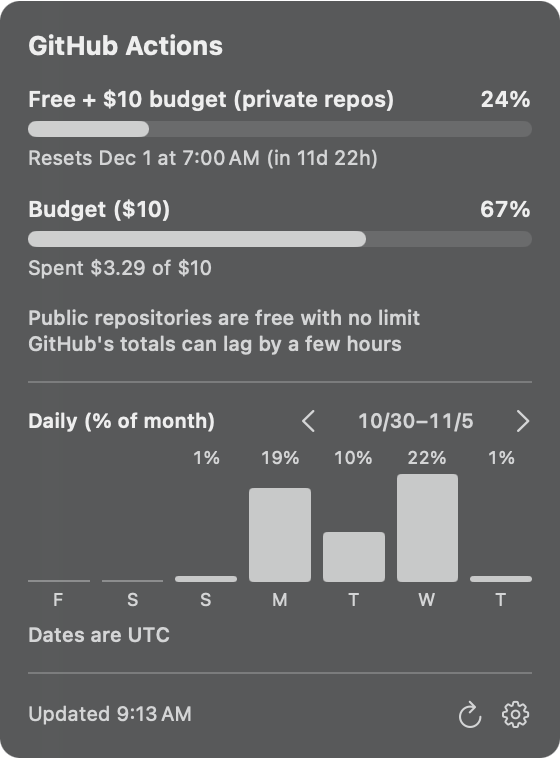
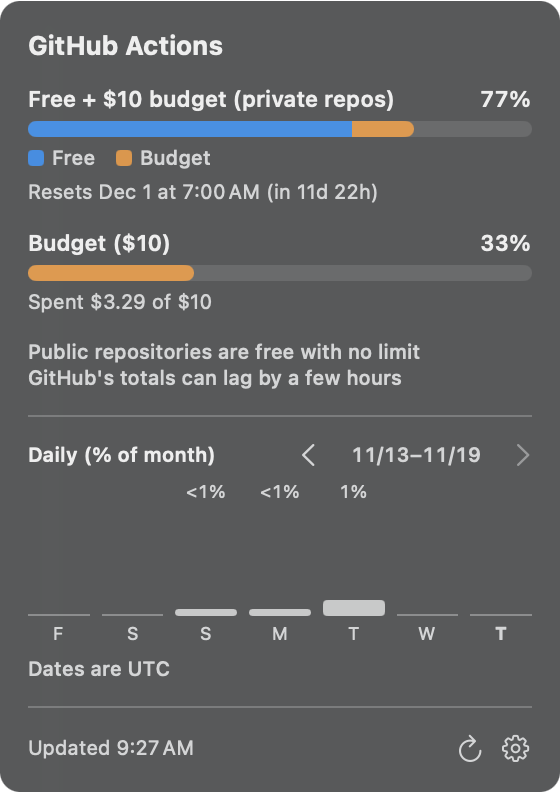
Split the free-plus-budget bar by colour
With a budget set, the GitHub "Free + budget" bar mixed both amounts in
one colour. It now shows the free part in blue and the budget part in
orange, with a small legend: in used mode, free used then budget used; in
remaining mode, free left then budget left (usage spends free usage
first). The bar length still matches the percentage. The budget-only row
below uses orange too. Without a budget nothing changes.

README: describes the colours; GitHub screenshot retaken in used mode so
both colours show (sample $10 budget; the owner's settings were restored).

AI-Agent: Claude Code (Opus 5.5)

diff --git a/Sources/TSAIUsageBar/PopoverView.swift b/Sources/TSAIUsageBar/PopoverView.swift
@@ -92,8 +92,18 @@ struct PopoverView: View {
                     Text("—").foregroundStyle(.secondary)
                 }
             }
-            UsageBar(fraction: display.percent(mode: settings.displayMode).map { Double($0) / 100 })
-                .opacity(model.isStale(provider) ? 0.5 : 1)
+            if kind == .month, let split = budgetSplit {
+                // Free usage and budget in different colours, so the mix is visible at a glance.
+                SplitUsageBar(free: split.free, budget: split.budget)
+                    .opacity(model.isStale(provider) ? 0.5 : 1)
+                HStack(spacing: 10) {
+                    LegendDot(color: SplitUsageBar.freeColor, text: s.legendFree)
+                    LegendDot(color: SplitUsageBar.budgetColor, text: s.legendBudget)
+                }
+            } else {
+                UsageBar(fraction: display.percent(mode: settings.displayMode).map { Double($0) / 100 })
+                    .opacity(model.isStale(provider) ? 0.5 : 1)
+            }
             Group {
                 switch display {
                 case .value(_, let reset):
@@ -120,6 +130,13 @@ struct PopoverView: View {
                            remaining: tt.duration(remaining))
     }
 
+    /// Free and budget parts of the GitHub month bar, when a budget is set.
+    private var budgetSplit: (free: Double, budget: Double)? {
+        guard provider == .github, let w = status.snapshot?.windows[.month],
+              case .value = model.display(ItemID(.github, .month)) else { return nil }
+        return BudgetBarSplit.parts(w, budgetUSD: model.githubBudgetUSD, mode: settings.displayMode)
+    }
+
     /// With a budget: remaining/used of the budget alone, and the amount billed against it.
     @ViewBuilder
     private var budgetRow: some View {
@@ -132,7 +149,7 @@ struct PopoverView: View {
                     Spacer()
                     Text("\(Int(shown.rounded()))%").font(.subheadline.monospacedDigit().weight(.semibold))
                 }
-                UsageBar(fraction: shown / 100)
+                UsageBar(fraction: shown / 100, color: SplitUsageBar.budgetColor) // same colour as the budget part
                     .opacity(model.isStale(.github) ? 0.5 : 1)
                 Text(s.budgetSpent(USDText.money(charged), USDText.format(budget)))
                     .font(.caption).foregroundStyle(.secondary)
@@ -246,13 +263,14 @@ struct PopoverView: View {
 /// Horizontal bar. Nil shows an empty track (no guessed value).
 struct UsageBar: View {
     let fraction: Double?
+    var color: Color? = nil
 
     var body: some View {
         GeometryReader { geo in
             ZStack(alignment: .leading) {
                 Capsule().fill(Color.primary.opacity(0.12))
                 if let fraction {
-                    Capsule().fill(Color.primary.opacity(0.75))
+                    Capsule().fill(color.map { $0.opacity(0.85) } ?? Color.primary.opacity(0.75))
                         .frame(width: max(fraction > 0 ? 4 : 0, geo.size.width * min(1, max(0, fraction))))
                 }
             }
@@ -389,5 +407,39 @@ struct DailyChart: View {
     private func rangeText(_ a: Date, _ b: Date) -> String {
         let f = formatter("Md")
         return "\(f.string(from: a))–\(f.string(from: b))"
+    }
+}
+
+/// A bar with two coloured parts from the left: free usage, then budget.
+struct SplitUsageBar: View {
+    let free: Double
+    let budget: Double
+    static let freeColor = Color.blue
+    static let budgetColor = Color.orange
+
+    var body: some View {
+        GeometryReader { geo in
+            let w = geo.size.width
+            ZStack(alignment: .leading) {
+                Capsule().fill(Color.primary.opacity(0.12))
+                HStack(spacing: 0) {
+                    Rectangle().fill(Self.freeColor.opacity(0.85)).frame(width: w * min(1, max(0, free)))
+                    Rectangle().fill(Self.budgetColor.opacity(0.85)).frame(width: w * min(1, max(0, budget)))
+                }
+                .clipShape(Capsule())
+            }
+        }
+        .frame(height: 8)
+    }
+}
+
+struct LegendDot: View {
+    let color: Color
+    let text: String
+    var body: some View {
+        HStack(spacing: 4) {
+            RoundedRectangle(cornerRadius: 2).fill(color.opacity(0.85)).frame(width: 8, height: 8)
+            Text(text).font(.caption2).foregroundStyle(.secondary)
+        }
     }
 }

diff --git a/Tests/UsageCoreTests/UsageCoreTests.swift b/Tests/UsageCoreTests/UsageCoreTests.swift
@@ -666,3 +666,29 @@ final class GitHubBudgetRowTests: XCTestCase {
         XCTAssertNil(GitHubActionsUsage.budgetPercent(w, budgetUSD: 20)) // older snapshot: re-read first
     }
 }
+
+final class BudgetBarSplitTests: XCTestCase {
+    let w = UsageWindow(usedPercent: 100, resetsAt: nil, usedAmount: 21.45, includedAmount: 18)
+
+    func testUsedAndRemainingSplit() {
+        // 18 free + 10 budget = 28. Used 21.45: all 18 free, 3.45 of the budget.
+        let used = BudgetBarSplit.parts(w, budgetUSD: 10, mode: .used)!
+        XCTAssertEqual(used.free, 18 / 28, accuracy: 0.0001)
+        XCTAssertEqual(used.budget, 3.45 / 28, accuracy: 0.0001)
+        let left = BudgetBarSplit.parts(w, budgetUSD: 10, mode: .remaining)!
+        XCTAssertEqual(left.free, 0, accuracy: 0.0001)
+        XCTAssertEqual(left.budget, 6.55 / 28, accuracy: 0.0001)
+        XCTAssertEqual(used.free + used.budget + left.free + left.budget, 1, accuracy: 0.0001)
+    }
+
+    func testWithinFreeUsageAndEdges() {
+        let early = UsageWindow(usedPercent: 25, resetsAt: nil, usedAmount: 7, includedAmount: 18)
+        let used = BudgetBarSplit.parts(early, budgetUSD: 10, mode: .used)!
+        XCTAssertEqual(used.free, 0.25, accuracy: 0.0001)
+        XCTAssertEqual(used.budget, 0)
+        let over = UsageWindow(usedPercent: 100, resetsAt: nil, usedAmount: 40, includedAmount: 18)
+        XCTAssertEqual(BudgetBarSplit.parts(over, budgetUSD: 10, mode: .used)!.budget, 10 / 28, accuracy: 0.0001) // capped
+        XCTAssertNil(BudgetBarSplit.parts(w, budgetUSD: nil, mode: .used))
+        XCTAssertNil(BudgetBarSplit.parts(UsageWindow(usedPercent: 1, resetsAt: nil), budgetUSD: 10, mode: .used))
+    }
+}

diff --git a/Sources/UsageCore/GitHubUsage.swift b/Sources/UsageCore/GitHubUsage.swift
@@ -136,3 +136,21 @@ public struct GitHubDailyCache: Codable, Equatable, Sendable {
         fetchedAt = fetchedAt.filter { $0.key >= cutoff }
     }
 }
+
+/// Split of the "free usage + budget" bar into its free and budget parts.
+public enum BudgetBarSplit {
+    /// Fractions of the whole bar (0...1) for the free part and the budget part.
+    /// Used mode: free used, then budget used. Remaining mode: free left, then budget left.
+    /// Usage consumes the free amount first, then the budget. Nil without amounts or a budget.
+    public static func parts(_ window: UsageWindow, budgetUSD: Double?, mode: DisplayMode) -> (free: Double, budget: Double)? {
+        guard let budget = budgetUSD, budget > 0, let used = window.usedAmount,
+              let included = window.includedAmount, included > 0 else { return nil }
+        let total = included + budget
+        let freeUsed = min(max(used, 0), included)
+        let budgetUsed = min(max(used - included, 0), budget)
+        switch mode {
+        case .used: return (freeUsed / total, budgetUsed / total)
+        case .remaining: return ((included - freeUsed) / total, (budget - budgetUsed) / total)
+        }
+    }
+}

diff --git a/Sources/UsageCore/Localization.swift b/Sources/UsageCore/Localization.swift
@@ -308,6 +308,8 @@ public struct Strings: Sendable {
                "免费额度＋预算 %1（私有仓库）", "무료 + 예산 %1 (비공개 저장소)", "Gratuit + budget %1 (dépôts privés)",
                "Gratis + Budget %1 (private Repos)", "ฟรี + งบ %1 (รีโพส่วนตัว)"), amount)
     }
+    public var legendFree: String { L("Free", "無料枠", "免費額度", "免费额度", "무료", "Gratuit", "Gratis", "ฟรี") }
+    public var legendBudget: String { L("Budget", "予算", "預算", "预算", "예산", "Budget", "Budget", "งบ") }
     public func budgetRowTitle(_ amount: String) -> String {
         fill(L("Budget (%1)", "予算（%1）", "預算（%1）", "预算（%1）", "예산 (%1)", "Budget (%1)", "Budget (%1)", "งบ (%1)"), amount)
     }

diff --git a/Sources/TSAIUsageBar/IconPreview.swift b/Sources/TSAIUsageBar/IconPreview.swift
@@ -60,6 +60,8 @@ enum UIPreview {
         defaults.removePersistentDomain(forName: "tsai-usagebar-preview")
         let settings = AppSettings(defaults: defaults)
         settings.enabledItems = [ItemID(.claude, .fiveHour), ItemID(.codex, .sevenDay)]
+        // Optional: TSAI_PREVIEW_MODE=used renders the "used" display mode.
+        if ProcessInfo.processInfo.environment["TSAI_PREVIEW_MODE"] == "used" { settings.displayMode = .used }
         let model = UsageModel()
         // Optional sample budget for checking the budget rows: TSAI_PREVIEW_BUDGET=10
         if let b = ProcessInfo.processInfo.environment["TSAI_PREVIEW_BUDGET"].flatMap(Double.init) { model.githubBudgetUSD = b }

diff --git a/README.md b/README.md
@@ -10,7 +10,7 @@ A lightweight macOS menu bar app that shows how much of your **Claude Code** and
 <p>
   <img src="docs/images/popover-claude.png" alt="Claude Code panel with 5-hour and 7-day bars and reset times" width="280">
   <img src="docs/images/popover-codex.png" alt="Codex panel" width="280">
-  <img src="docs/images/popover-github.png" alt="GitHub Actions panel showing free usage plus budget, the budget on its own and the amount spent" width="280">
+  <img src="docs/images/popover-github.png" alt="GitHub Actions panel: a free-plus-budget bar split into blue (free) and orange (budget), the budget on its own and the amount spent" width="280">
 </p>
 
 <sub>In these screenshots the Claude Code and Codex daily bars and the $10 GitHub budget are sample values; all other numbers are real.</sub>
@@ -76,7 +76,7 @@ curl -fsSL https://raw.githubusercontent.com/YusukeIt0/tsai-usage-bar/main/insta
 
 - Standard runners on public repositories are free with no limit, so `M` shows the monthly included usage that private repositories consume (Free: 12 USD, Pro: 18 USD of compute; other plans show "—").
 - It resets at 00:00 UTC on the 1st. GitHub's totals can lag by a few hours.
-- **Budget (optional):** if you set an Actions budget on GitHub, enter the same amount under **Monthly Actions budget** in Settings (GitHub has no public API for personal budgets). `M` then measures against the free usage plus the budget, which is how much is left before Actions stops. The panel also shows the budget on its own (remaining or used) and the amount spent against it this month, which is GitHub's own billed figure.
+- **Budget (optional):** if you set an Actions budget on GitHub, enter the same amount under **Monthly Actions budget** in Settings (GitHub has no public API for personal budgets). `M` then measures against the free usage plus the budget, which is how much is left before Actions stops. In the panel, that bar is split by colour, blue for free usage and orange for budget, so you can see the mix without reading numbers. Below it, the budget on its own (remaining or used, orange) and the amount spent against it this month, which is GitHub's own billed figure.
 - **Disconnect** forgets the token on this Mac; revoke the authorization anytime under GitHub → Settings → Applications.
 
 ## How it gets data
